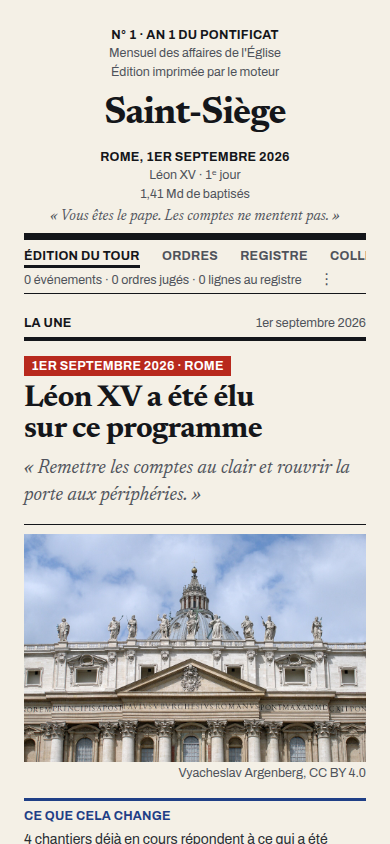
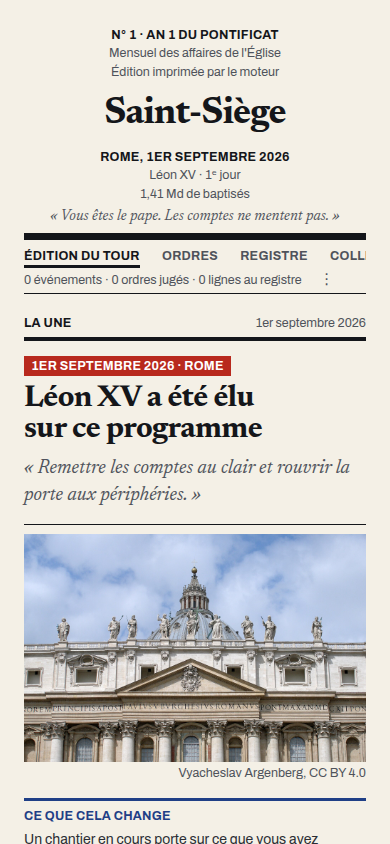
une : l'encadré ne peut plus dire qu'on approuve ce qu'on n'a pas lu
François a écrit « tous à poil » comme programme d'élection, et l'encadré « Ce
que cela change » lui a répondu que la Compagnie de Jésus, la Catholic Church et
la Curie romaine étaient pour. Il avait raison de crier : le moteur ne calcule
pas cela, et c'est moi qui l'avais écrit.

runtime/inauguration.js retient un chantier de deux façons, et une seule est une
réaction au texte : soit la déclaration NOMME un de ses mots de portée (`hits`),
soit il n'a aucune portée déclarée et suit alors tout ce que fait le Saint-Siège,
quel que soit le texte. Et `stance` est sa position debout, acquise avant le
conclave, jamais son avis sur le programme. L'encadré mélangeait les deux et en
faisait une approbation.

Il ne nomme plus que les chantiers réellement nommés, avec le mot qui les a
accrochés et la position qu'ils tenaient déjà, et compte les autres à part.
Quand rien n'est accroché, il le dit — et c'est un renseignement utile.

    « tous à poil »
    → Rien de ce qui a été déclaré ne recoupe un chantier en cours : aucun des
      mots employés n'est un de ceux que ces corps surveillent. 3 corps qui
      suivent tout ce que fait le Saint-Siège répondront de toute façon, sur ce
      que vous êtes et non sur ce que vous avez dit.

    « Remettre les comptes au clair et rouvrir la porte aux périphéries. »
    → Un chantier en cours porte sur ce que vous avez nommé, avec la position
      qu'il tenait déjà : Appareil financier du Vatican (« compte », contre).
[…]

Changed region(s): [[0.0615, 0.9858, 0.8615, 1.0]]

diff --git a/src/Game/GameUI/bulletin.jsx b/src/Game/GameUI/bulletin.jsx
@@ -235,6 +235,59 @@ const Story = ({ event, lead = false, tone }) =>
 const STANCE_LABEL = { hostile: "contre", supportive: "pour", rival: "rivale", neutral: "réservée" };
 const str = (v) => String(v ?? "").trim();
 
+/**
+ * « Ce que cela change », d'après runtime/inauguration.js et rien d'autre.
+ *
+ * La première version de cet encadré disait « N chantiers répondent à ce qui a
+ * été déclaré », et le joueur a écrit « tous à poil » pour s'en voir répondre
+ * que la Compagnie de Jésus était pour. Il avait raison de crier : le moteur ne
+ * calcule pas cela. `reactionsToDeclaration` retient un chantier de deux façons
+ * — parce que le texte NOMME un de ses mots de portée (`hits`), ou parce qu'il
+ * n'a aucune portée déclarée et suit alors tout ce que fait le Saint-Siège. Et
+ * `stance` est sa position debout, acquise avant le conclave, jamais son avis
+ * sur le programme.
+ *
+ * L'encadré ne nomme donc que les chantiers réellement nommés, avec le mot qui
+ * les a accrochés. Quand il n'y en a aucun, il le dit — c'est un renseignement
+ * utile : ce qui vient d'être déclaré n'accroche rien de ce que le monde tient.
+ */
+const CeQueCelaChange = ({ reactions }) => {
+    const nommes = reactions.filter((r) => Array.isArray(r.hits) && r.hits.length > 0);
+    const veilleurs = reactions.length - nommes.length;
+    const suite = veilleurs > 0
+        ? (veilleurs === 1
+            ? " Un corps qui suit tout ce que fait le Saint-Siège répondra de toute façon, sur ce que vous êtes et non sur ce que vous avez dit."
+            : ` ${veilleurs} corps qui suivent tout ce que fait le Saint-Siège répondront de toute façon, sur ce que vous êtes et non sur ce que vous avez dit.`)
+        : "";
+
+    if (nommes.length === 0) {
+        return (
+        <>
+        Rien de ce qui a été déclaré ne recoupe un chantier en cours : aucun des mots
+        employés n&apos;est un de ceux que ces corps surveillent.{suite}
+        </>
+        );
+    }
+
+    return (
+    <>
+    {nommes.length === 1
+        ? "Un chantier en cours porte sur ce que vous avez nommé, avec la position qu'il tenait déjà : "
+        : `${nommes.length} chantiers en cours portent sur ce que vous avez nommé, avec la position qu'ils tenaient déjà : `}
+    {nommes.map((r, i) => (
+        <span key={`${r.owner}-${i}`}>
+        {i > 0 ? ", " : ""}
+        <b style={{ color: "var(--oh-text-strong)" }}>{r.owner}</b>
+        {` (« ${r.hits.join(" », « ")} »`}
+        {STANCE_LABEL[String(r.stance || "").toLowerCase()] ? `, ${STANCE_LABEL[String(r.stance).toLowerCase()]}` : ""}
+        {")"}
+        </span>
+    ))}
+    . {nommes.length === 1 ? "Sa réponse tombera" : "Leur réponse tombera"} dans la prochaine édition.{suite}
+    </>
+    );
+};
+
 const Situation = ({ briefing, date, world, awaitingInauguration }) => {
     const inauguration = world?.inauguration;
     const nom = str(inauguration?.name);
@@ -266,21 +319,7 @@ const Situation = ({ briefing, date, world, awaitingInauguration }) => {
     titre={elu ? `${nom} a été élu sur ce programme` : "Ce que le nouveau pape trouve en arrivant"}
     chapo={elu ? `«\u00a0${declaration}\u00a0»` : null}
     sujet={elu ? "basilique" : ""}
-    encadre={elu && reactions.length > 0 ? (
-        <>
-        {reactions.length === 1
-            ? "Un chantier déjà en cours répond à ce qui a été déclaré : "
-            : `${reactions.length} chantiers déjà en cours répondent à ce qui a été déclaré : `}
-        {reactions.map((r, i) => (
-            <span key={`${r.owner}-${i}`}>
-            {i > 0 ? ", " : ""}
-            <b style={{ color: "var(--oh-text-strong)" }}>{r.owner}</b>
-            {STANCE_LABEL[String(r.stance || "").toLowerCase()] ? ` (${STANCE_LABEL[String(r.stance).toLowerCase()]})` : ""}
-            </span>
-        ))}
-        . Leur réponse tombera dans la prochaine édition.
-        </>
-    ) : null}
+    encadre={elu ? <CeQueCelaChange reactions={reactions} /> : null}
     >
     {texte}
     </ArticleDeUne>

diff --git a/design/rendu/bureau/INDEX.md b/design/rendu/bureau/INDEX.md
@@ -1,6 +1,6 @@
 # Rendu réel — bureau (1440×900)
 
-Capturé le 2026-09-11 11:08 · commit 5fb9b0b · source http://localhost:4173
+Capturé le 2026-09-11 11:22 · commit cb60187 · source http://localhost:4173
 
 Ces images sont le rendu réel du jeu dans un navigateur, pas une maquette.
 Une session sans navigateur (Claude Design) doit les lire avant de juger le graphisme.
@@ -11,14 +11,14 @@ Une session sans navigateur (Claude Design) doit les lire avant de juger le grap
 - `02-cle-api.png` — capturé, 94 Ko
 - `03-accueil.jpg` — capturé, 246 Ko
 - `04-habemus-papam.png` — capturé, 249 Ko
-- `05-edition-du-tour.jpg` — capturé, 207 Ko
+- `05-edition-du-tour.jpg` — capturé, 208 Ko
 - `06-ordres.png` — capturé, 74 Ko
 - `07-registre.png` — capturé, 62 Ko
 - `08-college.png` — capturé, 361 Ko
 - `09-caisses.png` — capturé, 48 Ko
 - `10-correspondance.png` — capturé, 80 Ko
 
-Total du lot : 1830 Ko.
+Total du lot : 1831 Ko.
 
 ## Polices
 

diff --git a/design/rendu/mobile/INDEX.md b/design/rendu/mobile/INDEX.md
@@ -1,6 +1,6 @@
 # Rendu réel — mobile (390×844)
 
-Capturé le 2026-09-11 11:09 · commit 5fb9b0b · source http://localhost:4173
+Capturé le 2026-09-11 11:23 · commit cb60187 · source http://localhost:4173
 
 Ces images sont le rendu réel du jeu dans un navigateur, pas une maquette.
 Une session sans navigateur (Claude Design) doit les lire avant de juger le graphisme.
@@ -11,14 +11,14 @@ Une session sans navigateur (Claude Design) doit les lire avant de juger le grap
 - `02-cle-api.png` — capturé, 88 Ko
 - `03-accueil.png` — capturé, 473 Ko
 - `04-habemus-papam.png` — capturé, 91 Ko
-- `05-edition-du-tour.png` — capturé, 199 Ko
+- `05-edition-du-tour.png` — capturé, 198 Ko
 - `06-ordres.png` — capturé, 61 Ko
 - `07-registre.png` — capturé, 51 Ko
 - `08-college.png` — capturé, 127 Ko
 - `09-caisses.png` — capturé, 38 Ko
 - `10-correspondance.png` — capturé, 69 Ko
 
-Total du lot : 1337 Ko.
+Total du lot : 1336 Ko.
 
 ## Polices
 
